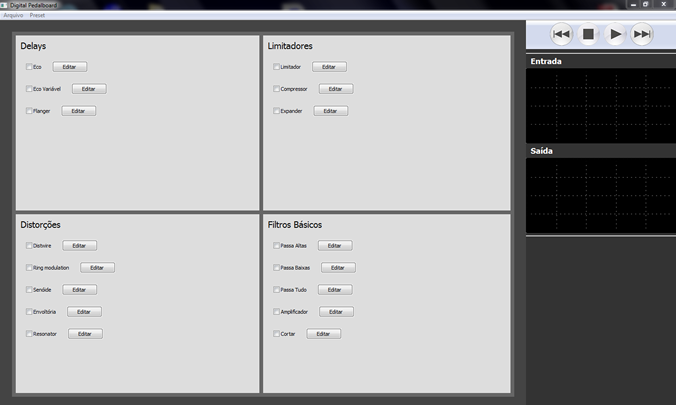
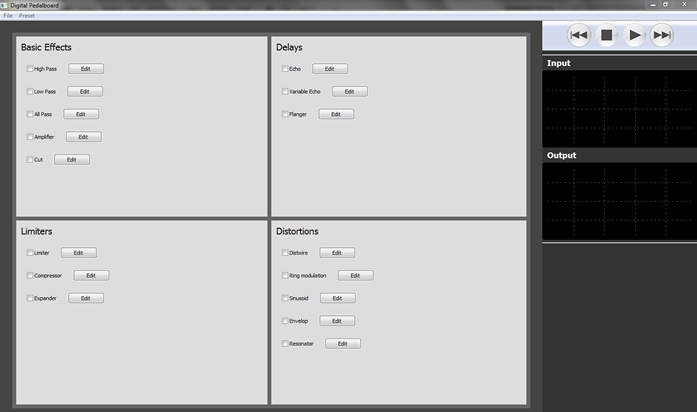
Update

diff --git a/filters.py b/filters.py
@@ -43,7 +43,7 @@ def eco(delay=0.001):
     Retorna uma instância do Eco
     """
     dic = {u"Intervalo (s)":(0.2,float,(0,5))}
-    inst = Filtro(echo, dic, u"Eco")
+    inst = Filtro(echo, dic, u"Echo")
     inst.vparams[0] = delay
     return inst
 
@@ -83,7 +83,7 @@ def filtro_delay_variavel(lag=2.):
     Delay variável com o pedal
     """
     dic = {u"Lag (ms)":(2.,float,(1,50))}
-    inst = Filtro(delay_variavel, dic, u"Eco Variável",True)
+    inst = Filtro(delay_variavel, dic, u"Variable Echo",True)
     inst.vparams[0] = lag
     return inst
     
@@ -101,7 +101,7 @@ def amplificador(ganho_max=5.0):
     Filtro que amplifica o sinal (ganho>1)
     """    
     dic = {u"Valor máximo da Amplificação":(5.0,float,(0.1,10))}
-    inst = Filtro(amp, dic, u"Amplificador", True)
+    inst = Filtro(amp, dic, u"Amplifier", True)
     inst.vparams[0] = ganho_max
     return inst
     
@@ -113,7 +113,7 @@ def passa_baixas(cutoff=700):
     Filtro que atenua altas frequências
     """
     dic = {u"Frquência de Corte (Hz)":(700,int,(0,20000))}
-    inst = Filtro(low_pass, dic, u"Passa Baixas")
+    inst = Filtro(low_pass, dic, u"Low Pass")
     inst.vparams[0] = cutoff
     return inst
 
@@ -126,7 +126,7 @@ def passa_altas(cutoff=700):
     Filtro que atenua baixas frequências
     """
     dic = {u"Frquência de Corte (Hz)":(700,int,(0,20000))}
-    inst = Filtro(high_pass, dic, u"Passa Altas")
+    inst = Filtro(high_pass, dic, u"High Pass")
     inst.vparams[0] = cutoff
     return inst
     
@@ -140,7 +140,7 @@ def passa_tudo(cutoff=700):
     """
    
     dic = {u"Frquência de 'Corte' (Hz)":(700,int,(0,20000))}
-    inst = Filtro(all_pass, dic, u"Passa Tudo")
+    inst = Filtro(all_pass, dic, u"All Pass")
     inst.vparams[0] = cutoff
     return inst
     
@@ -158,7 +158,7 @@ def limitador(threshold=.5):
     Filtro limitador. Limita as amplitudes ao limiar
     """
     dic = {u"Limiar":(.5,float,(0,1))}
-    inst = Filtro(the_limiter, dic, u"Limitador")
+    inst = Filtro(the_limiter, dic, u"Limiter")
     inst.vparams[0] = threshold
     return inst
 
@@ -214,7 +214,7 @@ def filtro_senoide(freq=700):
     Multiplica por senóide
     """
     dic = {u"Frequência (Hz)":(700,float,(0,20000))}
-    inst = Filtro(senoide, dic, u"Senóide")
+    inst = Filtro(senoide, dic, u"Sinusoid")
     inst.vparams[0] = freq
     return inst
 
@@ -238,7 +238,7 @@ def filtro_corta(limite=.5):
     Corta o som
     """
     dic = {u"Limite":(.5,float,(0,1))}
-    inst = Filtro(corta_var, dic, u"Cortar",True)
+    inst = Filtro(corta_var, dic, u"Cut",True)
     return inst
 
 
@@ -250,7 +250,7 @@ def filtro_mult_env(alpha=.9999):
     Corta o som
     """
     dic = {u"Alpha":(.9999,float,(0.1,.999999))}
-    inst = Filtro(mult_env, dic, u"Envoltória",False)
+    inst = Filtro(mult_env, dic, u"Envelop",False)
     return inst
 
 def the_resonator (signal,freq,band):
@@ -301,10 +301,10 @@ class Filtro:
             return (self.__fun(sig, pedal, *(tuple(self.vparams))))
 
 
-    filtros = {u"Filtros Básicos": (passa_altas,passa_baixas,passa_tudo, amplificador, filtro_corta)
-            , u"Limitadores": (limitador,compressor,filtro_expander)
+    filtros = {u"Basic Effects": (passa_altas,passa_baixas,passa_tudo, amplificador, filtro_corta)
+            , u"Limiters": (limitador,compressor,filtro_expander)
     
-                , u"Distorções": (dist_wire,filtro_senoide_var,filtro_senoide, filtro_mult_env, filtro_res)
+                , u"Distortions": (dist_wire,filtro_senoide_var,filtro_senoide, filtro_mult_env, filtro_res)
                 , u"Delays": (eco, filtro_delay_variavel, o_flanger)                
                 }
         

diff --git a/gui.py b/gui.py
@@ -44,15 +44,15 @@ class main_window(wx.Frame):
         self.Bind(wx.EVT_CLOSE, self.OnQuit)
         self.menubar = wx.MenuBar()
         self.menu = wx.Menu()
-        item_novo = self.menu.Append(wx.ID_NEW, "Novo Preset", "Criar novo preset de filtros")
-        item_carregar = self.menu.Append(wx.ID_OPEN, "Carregar Preset", "Carregar preset de filtros")
-        item_salvar = self.menu.Append(wx.ID_SAVE, "Salvar Preset", "Salvar preset de filtros")
-        item_sair = self.menu.Append(wx.ID_EXIT, "Sair", "Sair do aplicativo")
-        self.menubar.Append(self.menu , 'Arquivo')
+        item_novo = self.menu.Append(wx.ID_NEW, "New Preset", "Create new preset")
+        item_carregar = self.menu.Append(wx.ID_OPEN, "Load Preset", "Load preset")
+        item_salvar = self.menu.Append(wx.ID_SAVE, "Save Preset", "Save preset")
+        item_sair = self.menu.Append(wx.ID_EXIT, "Quit", "Quit")
+        self.menubar.Append(self.menu , 'File')
         self.menu_preset = wx.Menu()
-        item_voltar = self.menu_preset.Append(wx.ID_BACKWARD, "Voltar", "Voltar ao modo de execução normal")   
-        item_editar = self.menu_preset.Append(wx.ID_EDIT, "Editar Preset", "Editar Preset em execução")
-        item_start = self.menu_preset.Append(wx.ID_SETUP, "Executar Preset", "Executar Preset pré-configurado")
+        item_voltar = self.menu_preset.Append(wx.ID_BACKWARD, "Back", "Back")   
+        item_editar = self.menu_preset.Append(wx.ID_EDIT, "Edit Preset", "Edit Preset")
+        item_start = self.menu_preset.Append(wx.ID_SETUP, "Play Preset", "Play Preset")
         self.menubar.Append(self.menu_preset , 'Preset')
         self.SetMenuBar(self.menubar) 
         self.menubar.EnableTop(1, False)
@@ -674,7 +674,7 @@ class main_window(wx.Frame):
                 panel_um = wx.Panel(panelTemp)     
                 sizer_um = wx.BoxSizer(wx.HORIZONTAL)
                 check = wx.CheckBox(panel_um,label=filtro.name)
-                botao = wx.Button(panel_um,label="Editar")
+                botao = wx.Button(panel_um,label="Edit")
                 sizer_um.Add(check, 0, wx.EXPAND | wx.RIGHT | wx.LEFT, 10)
                 sizer_um.Add(botao, 0, wx.EXPAND | wx.RIGHT | wx.LEFT, 10)
                 panel_um.SetSizer(sizer_um)
@@ -756,7 +756,7 @@ class main_window(wx.Frame):
         self.sizer_graficos = wx.BoxSizer(wx.VERTICAL)
         self.panel_graficos.SetSizer(self.sizer_graficos)  
         # Entrada        
-        txt = wx.StaticText(self.panel_graficos, label=u"Entrada")
+        txt = wx.StaticText(self.panel_graficos, label=u"Input")
         txt.SetFont(titulo)
         txt.SetForegroundColour("#FFFFFF")
         self.sizer_graficos.Add(txt,0, wx.LEFT, 10)
@@ -764,7 +764,7 @@ class main_window(wx.Frame):
         
         
         # Saída
-        txt2 = wx.StaticText(self.panel_graficos, label=u"Saída")
+        txt2 = wx.StaticText(self.panel_graficos, label=u"Output")
         txt2.SetFont(titulo)
         txt2.SetForegroundColour("#FFFFFF")       
         self.sizer_graficos.Add(txt2,0, wx.LEFT, 10)
